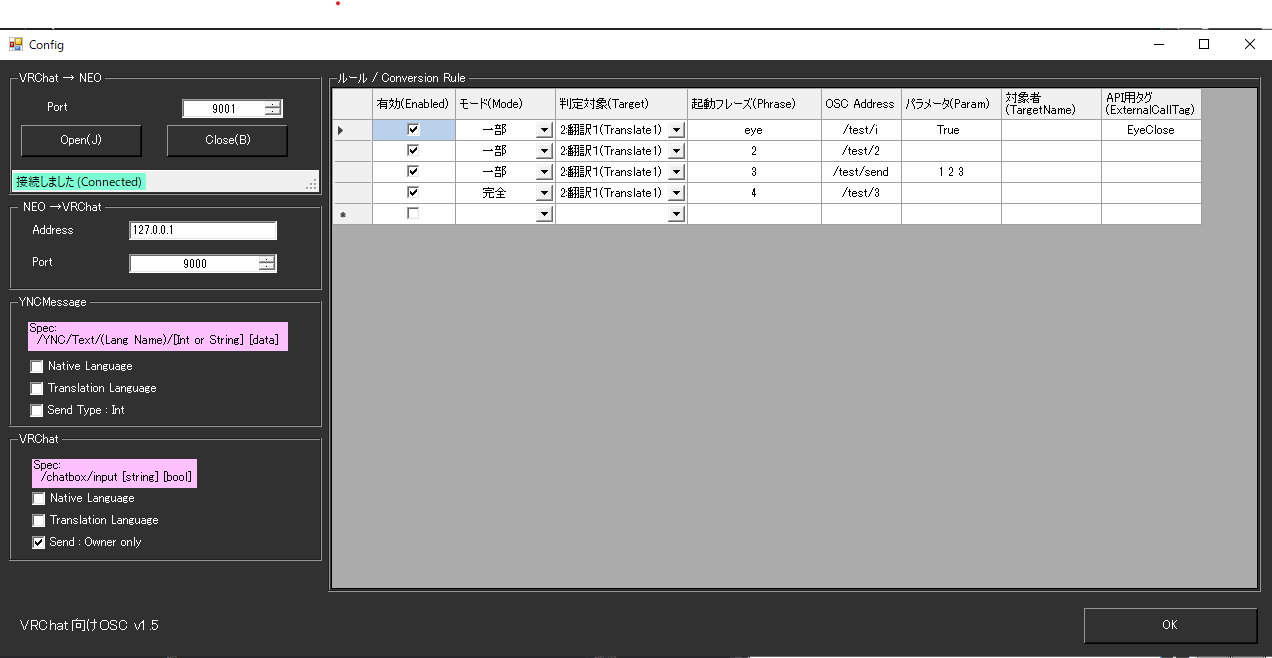
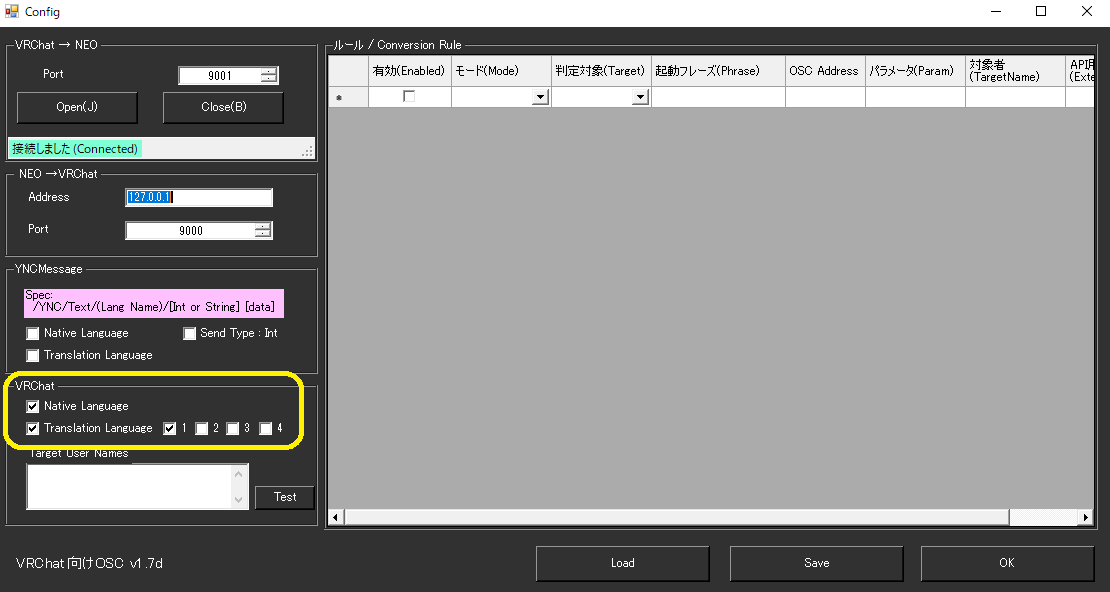
v2.0.34 公開 ・新プラグイン　ノムリッシュ変換の追加 ・VRC案内追記

diff --git a/docs/cs/cs_vrchat.md b/docs/cs/cs_vrchat.md
@@ -7,32 +7,65 @@
 !!! Info "前提条件"
     * VRChat OSCプラグイン v1.3b以上がうごいていること
 
-## 1.OSCプラグインを有効にする
+### 1.話す言語と自分の名前を決めます。
+ 
+![プラグインメニュー](images/cs_vrchat_p4.png)
+
+### 2.音声認識の種類を決めます
+
+!!! Info "機能限定"
+    * マイク入力のデバイス選択はブラウザの設定画面で　行います
+
+![プラグインメニュー](images/cs_vrchat_p5.png)
+
+### ３.音声認識の種類を決めます
+
+* 支援版翻訳の場合は、支援していないと使えません。
+![プラグインメニュー](images/cs_vrchat_p6.png)
+
+### 4.プロモーションコードをいれます
+
+* 支援版翻訳の場合は、コードを入れることでアクティベートされます。
+* 　おためし翻訳コードをお持ちの方は、ここに入れてください
+* 　無料の翻訳エンジンを使う場合には、追加の設定（ＡＰＩキーや翻訳エンジン設定）を行う必要があります。
+
+![プラグインメニュー](images/cs_vrchat_p8.png)
+
+### 5.OSCプラグインを有効にする
 
 ![プラグインメニュー](../plugin/images/plugin_vrchat_osc_p1.png)
 
-## 2.VRChat を起動する
+### 6.VRChat を起動する
 
 * VRChatはVRモードでもデスクトップモードでも構いません
 * 最新版にアップデートして試してください
 * ゆかりねっとコネクターNEOが動いているPCで起動させます
 
-## 3.送信を有効にする
+### 7.送信を有効にする
 
 ![プラグインメニュー](../plugin/images/plugin_vrchat_osc_p2.png)
 
 * Openを押します。
-* VRChat枠にある「Translation Language」をONにします
+* VRChat枠にある「Ｎａｔｉｖe」と「Translate1」をONにします
 * ゆかりねっとコネクターNEOの翻訳１の設定をしましょう。
 
 !!! Info "機能限定"
-    * 22/9/5現在、VRChatは、Translation(英語)にのみ対応しています
-    * VRChatが対応次第、多国語が使えるようになります
+    * 2022/12現在、多国語表示ができています。　
+    * 文字が長くなると後ろが切れてしまうことがあります。
 
-## 4.音声認識させましょう
+### 8.VRChat側の設定を変える
+
+* リングメニューでOSC機能をＯＮにしてください
+
+![プラグインメニュー](images/cs_vrchat_p1.png)
+![プラグインメニュー](images/cs_vrchat_p2.png)
+![プラグインメニュー](images/cs_vrchat_p3.png)
+
+!!! Info "機能設定"
+    * VRChatメインメニューの設定で、ＣｈａｔＢｏｘの表示位置を設定できます
+    * 見え方のカスタマイズは、個々に見る方が設定をします。(文字サイズや位置など）
+
+### 9.音声認識をする
 
 * 認識すると、翻訳結果がVRChatで表示されます
 
-!!! Info "機能限定"
-    * 会話が長いと文が切れてしまいます。
-    * 短めに話してみましょう。

diff --git a/docs/plugin/plugin_nomlish.md b/docs/plugin/plugin_nomlish.md
@@ -1,0 +1,35 @@
+!!! Info "前提条件"
+    * なし
+
+## このプラグインで出来ること
+
+* 認識後の文字を強制的にノムリッシュ置き換えることができます
+
+!!! note "この置換機能について"
+    * [ノムリッシュ変換](https://racing-lagoon.info/nomu/translate.php)のAPIを用いて実現しています。
+
+
+##　有効化
+
+![置換](images/plugin_ｎｏｍｌｉｓｈ_p1.png)
+
+* プラグインを使うチェックをONにしてください。
+
+## 設定
+
+![辞書](images/plugin_ｎｏｍｌｉｓｈ_p2.png)
+
+|設定|意味|
+|:--|:---|
+|変換レベル|変換内容をきめます|
+
+## 制約・仕様
+
+* ノムリッシュ変換ＡＰＩは日本語にのみ変換されます。母国語や変換先に日本語がない場合は変換されません。
+* ノムリッシュ変換ＡＰＩが混んでいて動かない場合は変換できません。
+* 変換には少々待ち時間がかかることがあります。
+* 他者作成のＡＰＩを使用させていただいております。予告なくサービスが終了することがあります。
+
+## 使うとき
+
+1. 音声認識と同時に置換されます。

diff --git a/docs/download.md b/docs/download.md
@@ -19,7 +19,9 @@
 !!! Warning "これは開発版です"
     改善や不具合修正などをいち早く実施していますが、開発中なので不安定な部分もあるかもしれません。誰かのニーズに応えた結果、別の方の環境に合わなくなっている可能性もあり、随時調整するバージョンになっています。ニーズに応じてご利用ください
 
-### v2.0.33：[ダウンロード](https://machanbazaar.com/wp-content/uploads/2022/12/YNCneo_v2.0.33.zip)
+!!! Info "VRChat連携、ITVOICE連携、ノムリッシュ変換したい方はこちらをお使いください"
+
+### v2.0.34：[ダウンロード](https://machanbazaar.com/wp-content/uploads/2022/12/YNCneo_v2.0.34.zip)
 
 !!! warn  "コミュニティにレポートがあった問題に最速対応したバージョンです"
 
